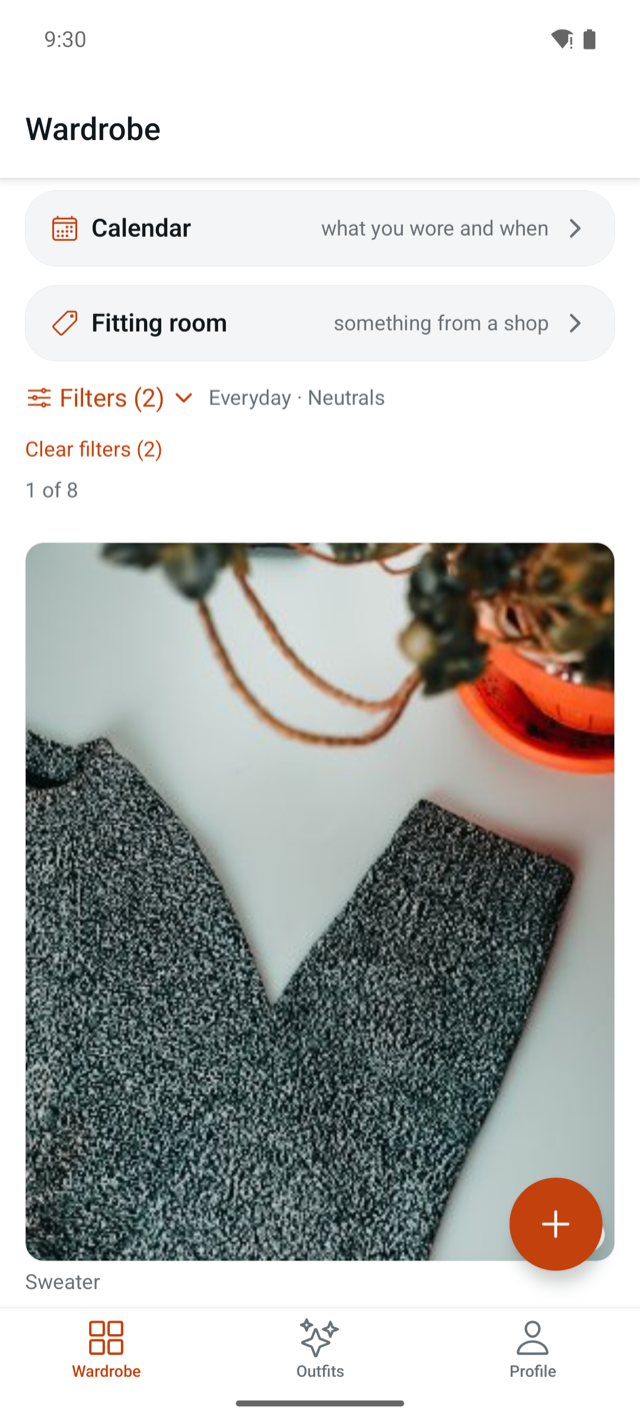
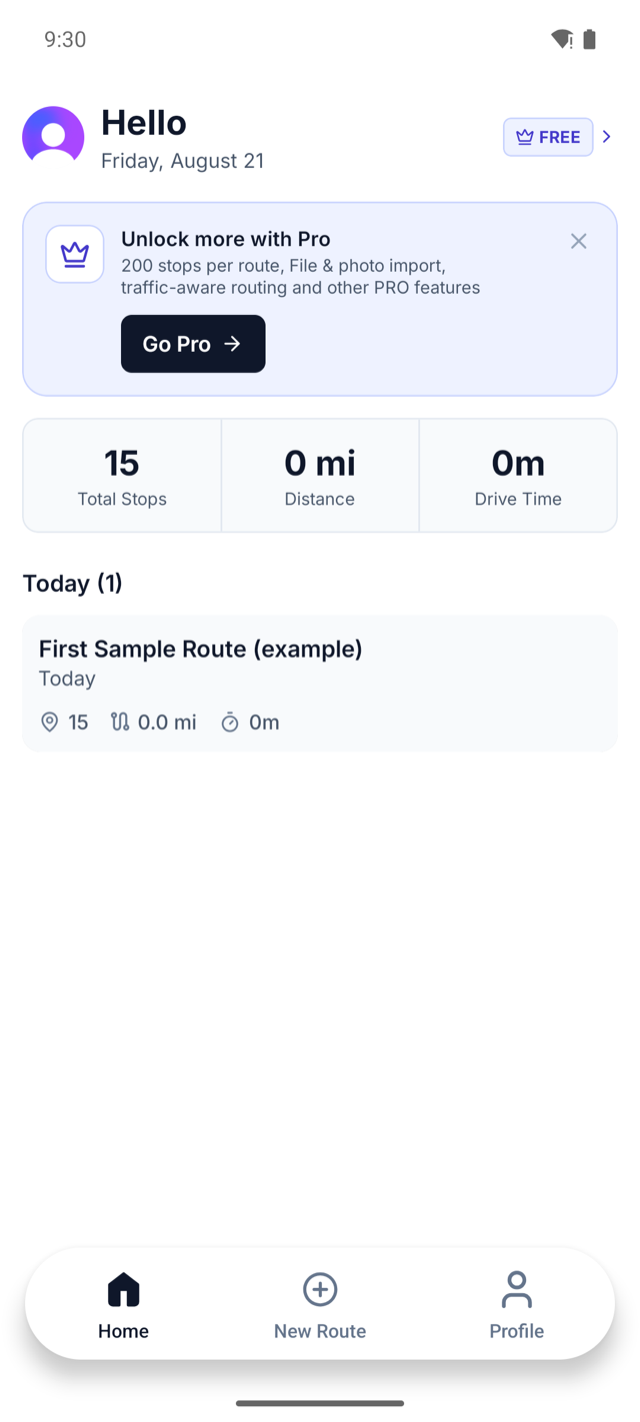
fix: сітка гардероба — знімок показував «1 of 8» замість самої сітки

diff --git a/index.html b/index.html
@@ -106,9 +106,9 @@
                 src="assets/shots/03-grid.png"
                 width="640" height="1422"
                 loading="lazy" decoding="async"
-                alt="Ecru's wardrobe grid with filter badges active and a counter reading 7 of 19." />
+                alt="Ecru's wardrobe grid: three columns of item thumbnails, each with a dot showing its measured color, and a counter reading 8 items." />
             </picture>
-            <figcaption>Filters, and a counter that says how much you are hiding.</figcaption>
+            <figcaption>Every item, its measured color, and a count you can trust.</figcaption>
           </figure>
         </div>
       </div>
